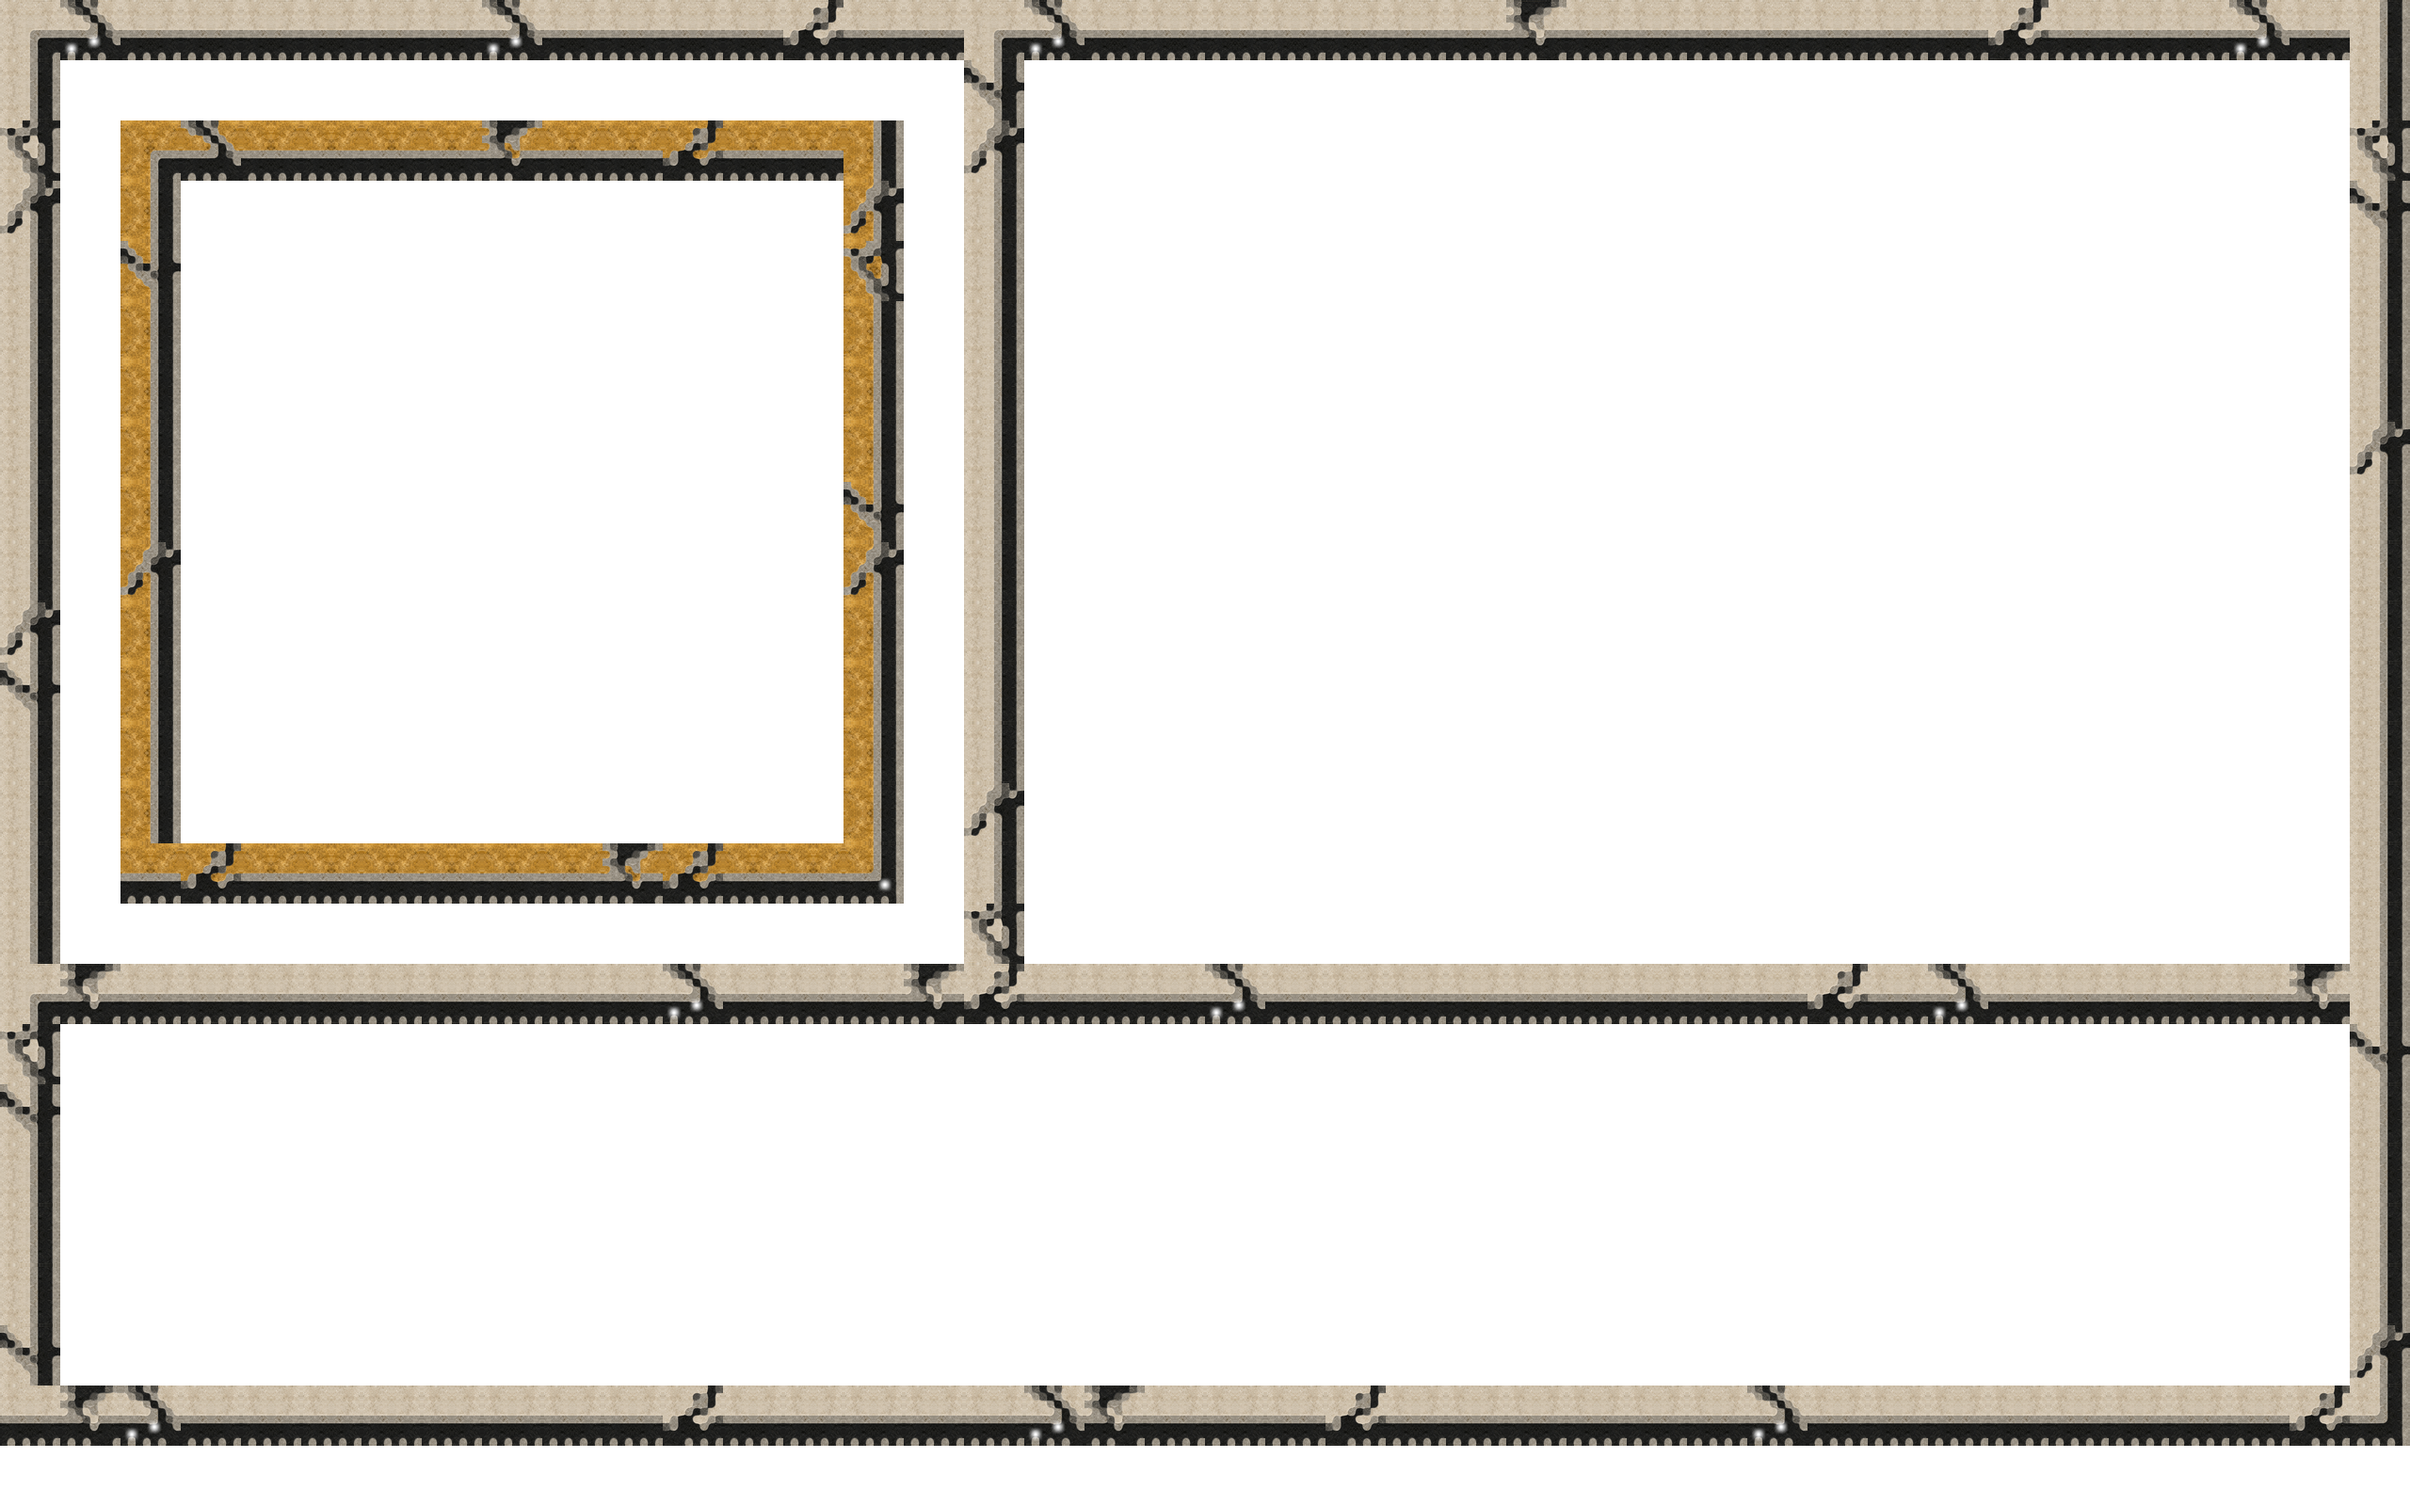
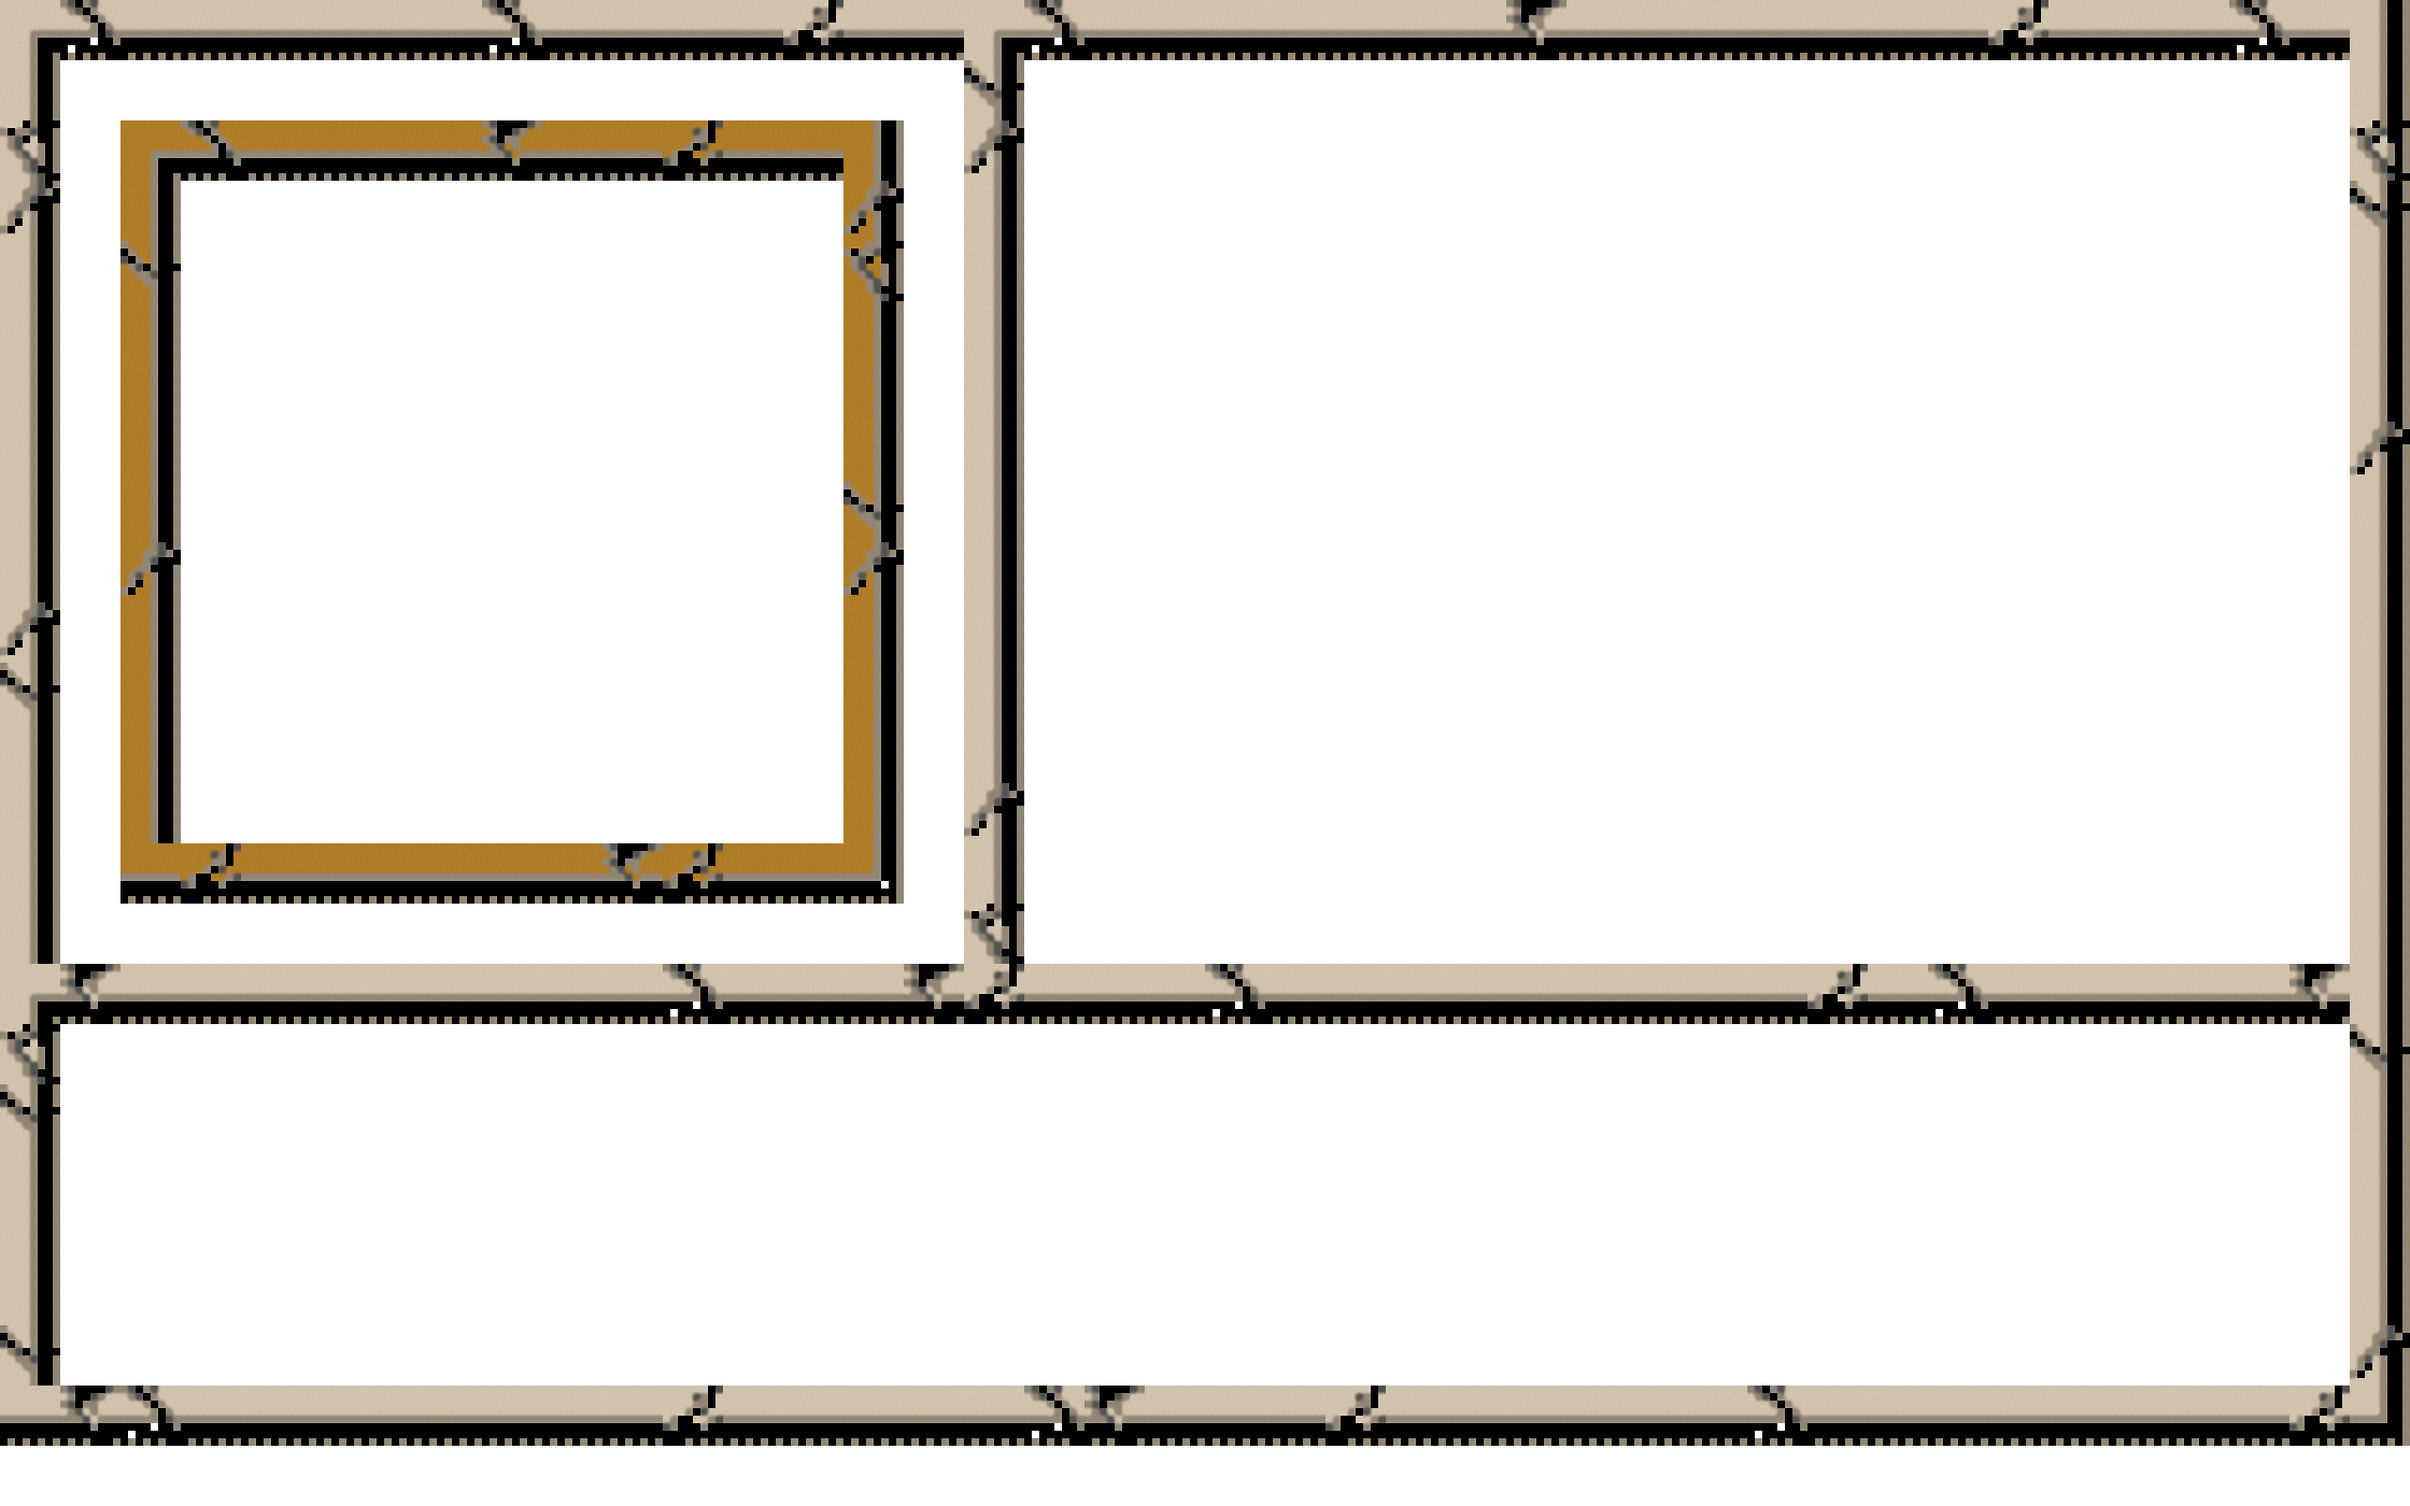
Integrate clean alloy HD frame panels

Changed region(s): [[0.0, 0.0, 1.0, 0.9688]]

diff --git a/scripts/import_clean_alloy_ui_frame_tiles.py b/scripts/import_clean_alloy_ui_frame_tiles.py
@@ -1,0 +1,109 @@
+#!/usr/bin/env python3
+"""Import the faithful clean-alloy UI-frame delivery and rebuild layouts.
+
+The supplied art uses transparency for every black source pixel. In the live
+game those black pixels are the opaque backing inside an occupied 8x8 frame
+cell; leaving them transparent can expose the low-resolution framebuffer and
+text below the HD overlay. This importer preserves the supplied alloy pixels,
+restores opaque black backing, and keeps only original magenta-key pixels
+transparent.
+"""
+
+from __future__ import annotations
+
+import argparse
+import subprocess
+import sys
+from pathlib import Path
+
+from PIL import Image
+
+
+ROOT = Path(__file__).resolve().parents[1]
+SOURCE_SHEET = (
+    ROOT
+    / "original assets"
+    / "extracted-assets"
+    / "8X8D1_block_202_interface_tiles.png"
+)
+TILE_OUTPUT = ROOT / "HDAssets" / "UI_FRAME" / "tiles"
+LAYOUT_BUILDER = ROOT / "scripts" / "build_hd_ui_frame_assets.py"
+MAGENTA_KEY = (255, 82, 255)
+
+
+def expected_name(source_index: int) -> str:
+    return "UI_FRAME_symbol_{0:03X}_tile_{1:03d}.png".format(
+        0x100 + source_index, source_index
+    )
+
+
+def source_tile(sheet: Image.Image, source_index: int) -> Image.Image:
+    x = (source_index % 8) * 8
+    y = (source_index // 8) * 8
+    return sheet.crop((x, y, x + 8, y + 8)).convert("RGB")
+
+
+def import_tile(delivery: Image.Image, original: Image.Image) -> Image.Image:
+    rgba = delivery.convert("RGBA")
+    if rgba.size != (64, 64):
+        raise ValueError("delivery tile is not 64x64")
+
+    output = rgba.copy()
+    pixels = output.load()
+    original_pixels = original.load()
+    for source_y in range(8):
+        for source_x in range(8):
+            source_color = original_pixels[source_x, source_y]
+            for y in range(source_y * 8, (source_y + 1) * 8):
+                for x in range(source_x * 8, (source_x + 1) * 8):
+                    if source_color == MAGENTA_KEY:
+                        pixels[x, y] = (0, 0, 0, 0)
+                    elif source_color == (0, 0, 0):
+                        pixels[x, y] = (0, 0, 0, 255)
+                    else:
+                        red, green, blue, _alpha = pixels[x, y]
+                        pixels[x, y] = (red, green, blue, 255)
+    return output
+
+
+def main() -> None:
+    parser = argparse.ArgumentParser()
+    parser.add_argument(
+        "delivery",
+        type=Path,
+        help="directory containing the 20 FINAL_64x64_RGBA PNG files",
+    )
+    args = parser.parse_args()
+
+    delivery = args.delivery.resolve()
+    if not delivery.is_dir():
+        raise SystemExit("delivery directory not found: {0}".format(delivery))
+
+    sheet = Image.open(SOURCE_SHEET).convert("RGB")
+    if sheet.size != (64, 40):
+        raise SystemExit("unexpected authoritative source-sheet dimensions")
+
+    expected = {expected_name(index) for index in range(20, 40)}
+    actual = {path.name for path in delivery.glob("*.png")}
+    missing = sorted(expected - actual)
+    unexpected = sorted(actual - expected)
+    if missing or unexpected:
+        raise SystemExit(
+            "delivery filename mismatch; missing={0}, unexpected={1}".format(
+                missing, unexpected
+            )
+        )
+
+    TILE_OUTPUT.mkdir(parents=True, exist_ok=True)
+    for source_index in range(20, 40):
+        name = expected_name(source_index)
+        supplied = Image.open(delivery / name).convert("RGBA")
+        imported = import_tile(supplied, source_tile(sheet, source_index))
+        imported.save(TILE_OUTPUT / name, optimize=True)
+
+    subprocess.run([sys.executable, str(LAYOUT_BUILDER)], check=True)
+    print("imported 20 clean-alloy UI-frame tiles and rebuilt 7 layouts")
+
+
+if __name__ == "__main__":
+    main()

diff --git a/image-uprez-pipeline/test_hd_lifecycle_contract.py b/image-uprez-pipeline/test_hd_lifecycle_contract.py
@@ -42,11 +42,11 @@ assert cmd_combat.rfind("ovr025.LoadPic();") > cmd_combat.rfind(
     "gbl.game_state = GameState.WildernessMap;"
 )
 
-# The standard demo launcher must prepare the same isolated, validated runtime
-# as run-full-auto and take its default visual/source data from the refactor
-# checkout. Launching Main.exe directly from tracked Data/ bypasses the runtime
-# lookup and silently falls back to the original low-resolution art.
-assert 'export COAB_GAME_DIR="${COAB_GAME_DIR:-$COAB_DIR/../coab-refactor/Data}"' in launch
+# The standard release launcher must prepare the same isolated, validated
+# runtime as run-full-auto and take its default source data from this release's
+# tracked Data/ tree. Launching Main.exe directly bypasses the runtime lookup
+# and silently falls back to the original low-resolution art.
+assert 'export COAB_GAME_DIR="${COAB_GAME_DIR:-$COAB_DIR/Data}"' in launch
 assert 'exec "$COAB_DIR/run-full-auto.sh" "$@"' in launch
 assert 'exec mono "$COAB_DIR/Main/bin/Release/Main.exe"' not in launch
 

diff --git a/test-evidence/clean-alloy-frame-panels-2026-07-26/RESULT.md b/test-evidence/clean-alloy-frame-panels-2026-07-26/RESULT.md
@@ -1,0 +1,45 @@
+# Clean-alloy UI frame integration — July 26, 2026
+
+## Scope
+
+Integrated the user-supplied `COAB_Frame_Panels_Clean_Alloy_FINAL` delivery into the faithful High Res Release.
+
+- Imported all 20 exact 64×64 RGBA runtime tiles (`0x114`–`0x127`).
+- Rebuilt all seven 2560×1600 retained UI-frame layouts.
+- Kept the optional smooth 128×128 reinterpretation out of the faithful runtime because the engine uses 64×64 tiles and the smooth set intentionally changes the original 8×8 silhouette.
+
+## Runtime occlusion correction
+
+The supplied exact tiles made both original black pixels and magenta-key pixels transparent. In the live retained-overlay architecture, original black pixels are the opaque backing inside occupied frame cells. Leaving them transparent can expose low-resolution framebuffer text or frame pixels below the HD layer.
+
+`scripts/import_clean_alloy_ui_frame_tiles.py` therefore:
+
+1. preserves the supplied clean-alloy RGB artwork in every non-black source cell;
+2. restores original black source cells as opaque black;
+3. keeps only original magenta-key source cells transparent;
+4. rebuilds all seven layouts through `scripts/build_hd_ui_frame_assets.py`.
+
+The import is byte-idempotent.
+
+## Verification
+
+- Independently matched all 20 supplied PNG SHA-256 hashes against `COMPLETED_DELIVERY_VALIDATION.json`.
+- Verified all 20 integrated tiles are 64×64 RGBA.
+- Verified every original non-magenta source cell is fully opaque and every original magenta-key cell is transparent.
+- Verified all seven assembled layouts are 2560×1600 RGBA.
+- `xbuild /property:Configuration=Release coab.sln`: succeeded with 0 errors and the existing nonblocking WiX warning.
+- `python3 image-uprez-pipeline/test_integration.py`: passed; 231 lookups and 121 byte-matched staged assets.
+- `python3 image-uprez-pipeline/test_hd_lifecycle_contract.py`: passed for 111 approved PIC identities after aligning its stale launcher assertion with the release-local `Data/` policy.
+- `COAB_PREPARE_ONLY=1 ./launch.sh`: validated 231 entries and integrated 121 approved assets.
+- Live 1280×800 Xvfb smoke: game remained alive through 16 captures. The new clean-alloy frame rendered on the credits/divider screen and party-function screen without stale overlays, low-resolution bleed, missing borders, or corrupt seams.
+- Live native 2560×1600 Xvfb smoke: game remained alive and the same two framed screens rendered at the layout assets' native resolution without one-pixel gaps, clipping, transparency leaks, or corruption. The frameless Play/Demo transition also remained free of a stale frame.
+
+## Evidence
+
+- `live-contact.jpg`: chronological contact sheet of the 16-capture 1280×800 live run.
+- `steps/`: curated 1280×800 credits, frameless Play/Demo, and party-function captures.
+- `native-2560x1600/`: curated native-resolution captures of those same lifecycle states.
+- `SUPPLIED_SHA256SUMS.txt`: hashes of the user-supplied exact runtime tiles.
+- `INTEGRATED_TILE_SHA256SUMS.txt`: hashes after runtime occlusion correction.
+- `INTEGRATED_LAYOUT_SHA256SUMS.txt`: hashes of the seven rebuilt layouts.
+- `game.log`, `xvfb.log`, and `result.txt`: staging and live-run evidence.
